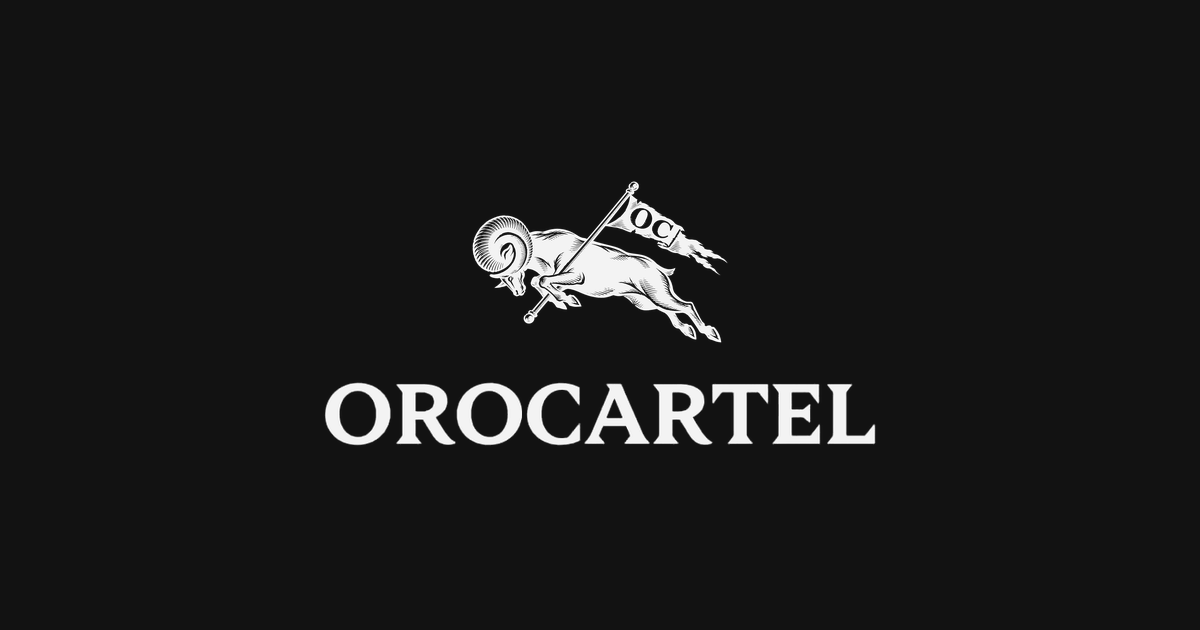
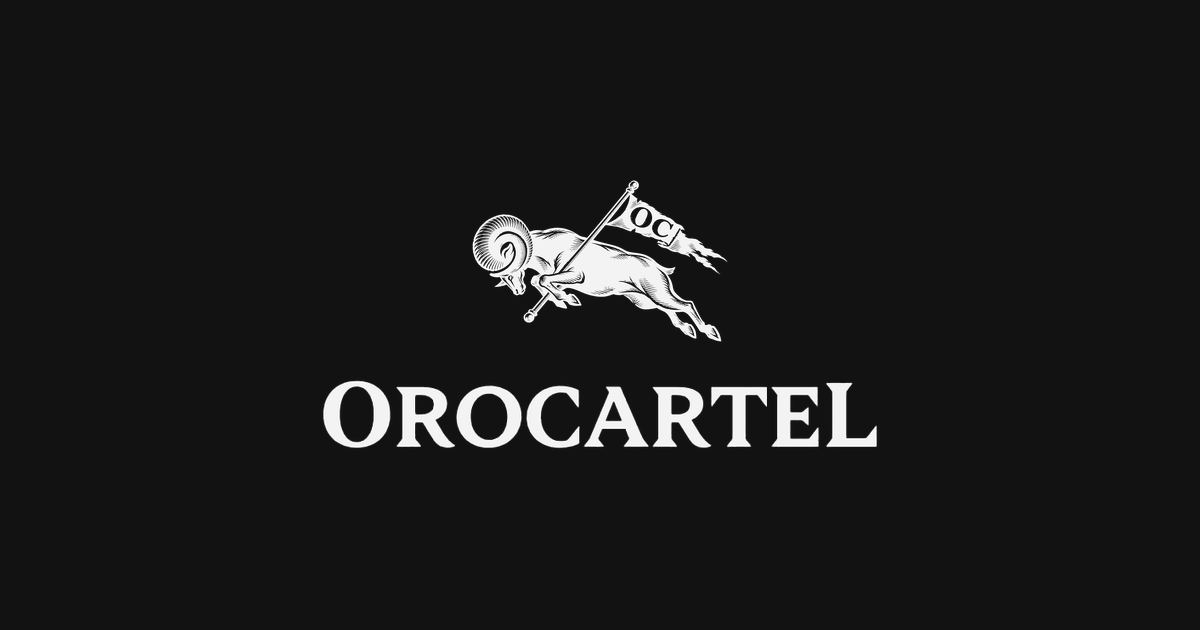
Swap in the remade OROCARTEL wordmark
Claude-Session: https://claude.ai/code/session_01T4Cdqd23qvkWZuxUWvy2Fz

Changed region(s): [[0.2775, 0.6032, 0.74, 0.7238], [0.37, 0.3016, 0.6167, 0.5429]]

diff --git a/components/Logo.tsx b/components/Logo.tsx
@@ -5,7 +5,7 @@ export default function Logo({ size = 200, className }: { size?: number; classNa
   return (
     <span className={className ? `${styles.logo} ${className}` : styles.logo} style={{ width: size }}>
       <img src="/ram.png" alt="" className={styles.mark} width={1313} height={833} />
-      <img src="/wordmark.png" alt="OROCARTEL" className={styles.word} width={657} height={85} />
+      <img src="/wordmark.png" alt="OROCARTEL" className={styles.word} width={659} height={87} />
     </span>
   )
 }
